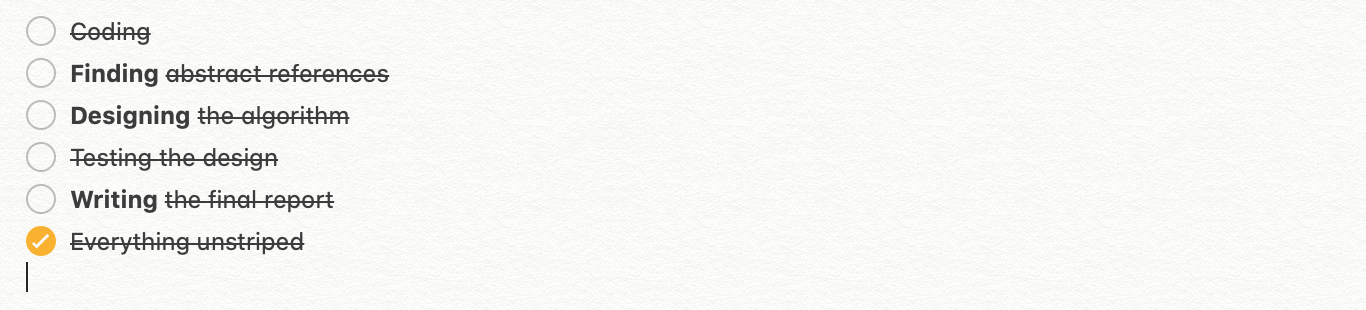
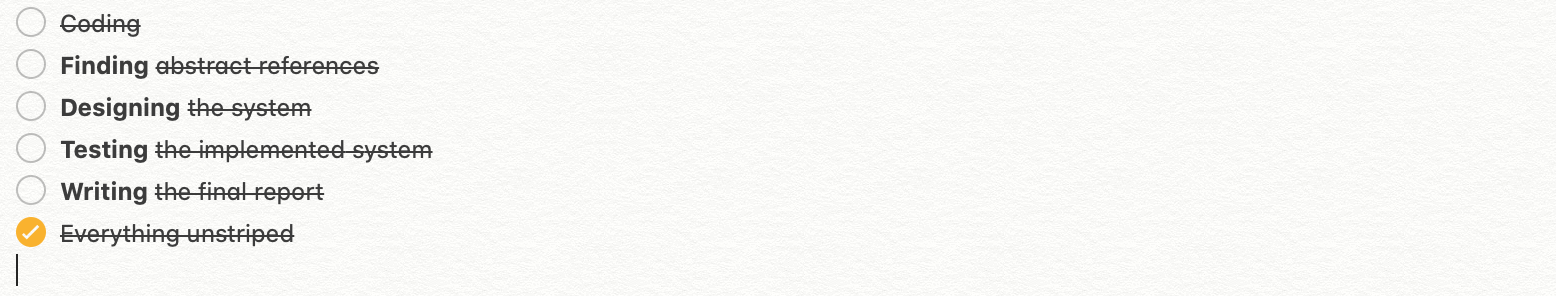
of the fork, or..

diff --git a/_posts/2020-08-20-open_book.md b/_posts/2020-08-20-open_book.md
@@ -98,14 +98,15 @@ So that I could figure if..
 
 
 
-I figured out that HTML is all I ever needed.<br><br>
+### I figured out that HTML is all I ever needed! Phew..<br><br>
 ![very fast book](/public/assets/images/fast_book.png)
-### Post-Credit Scenes
+
+## Post-Credit Scenes
 My favourite thing about coding is:
 ![would rather](/public/assets/images/would_rather.png)
 And that's why this project was awesome!
 
-> Because not only GNU is Not Unix, the cursor at the end of the list stopped because, apart from Finding, Designing, and Writting, my other favourite thing is: **Reading**!
+> Because not only GNU is Not Unix, the cursor at the end of the list stopped because, apart from Finding, Designing, Testing and Writting, my other favourite thing about coding is: **Reading**!
 
 But not only epub is bandwith heavier than HTML, there was one aspect of FastBook which I overL👀ked.
 
@@ -152,7 +153,7 @@ Nooo. omg, leave me alone!
 2. Too close
 ![too close](/public/assets/images/so_close.png)
 
-**3) I think it's TIME...to** ~~delete all the code and start all over again~~ ~~serve Demeter~~ **ASK WHAT TIME IT IS!**
+**3) I think it's TIME...to** ~~delete all the code and start all over again~~ **ASK WHAT TIME IT IS!**
 ![pascal](/public/assets/images/time.png)
 
 The time icon toggles the time. (pretty self-explanatory). Go click on the time to see what happens.
@@ -164,7 +165,7 @@ The time icon toggles the time. (pretty self-explanatory). Go click on the time 
 ![fork](/public/assets/images/fork.png)
 That's why I designed this "fork" to "scoope" out the important ~~giga~~**bits**.
 
-But in form of an arrow. Cause **I like when content "goes to the point"**.
+But in form of an arrow. Cause **I like when content "goes to the point"** ~~of the fork or?~~.
 
 Ah the sky! so blue.. Namely the title, and everything else highlighted in that colour will have the luxury to be jumped to when you hit the target. <<this text should also be highlighted in sky blue. `TODO: do it..`
 
@@ -195,7 +196,7 @@ How come you can see my nose and I can't!<br><br>
 Can you see my eyes, t👀?<br>
 No way!<br>
 My forehead?..oh you have something _h**E**re_<br>
-> Where?
+> W_h**E**re_?
 
 ## Reading tips.
 
@@ -217,4 +218,4 @@ Tell me what you do at.. oh, there is no way to tell me.<br>
 Anyway, I am bored now.<br>
 Go find out what the other things do.
 
-### _[Use ~~me~~..](http://apps.tatianazihindula.com:5000)_ [(if I am working)](http://apps.tatianazihindula.com:5000)
+#### _[Use ~~me~~..](http://apps.tatianazihindula.com:5000)_ if I am workin.. [~~for you~~](http://apps.tatianazihindula.com:5000)
